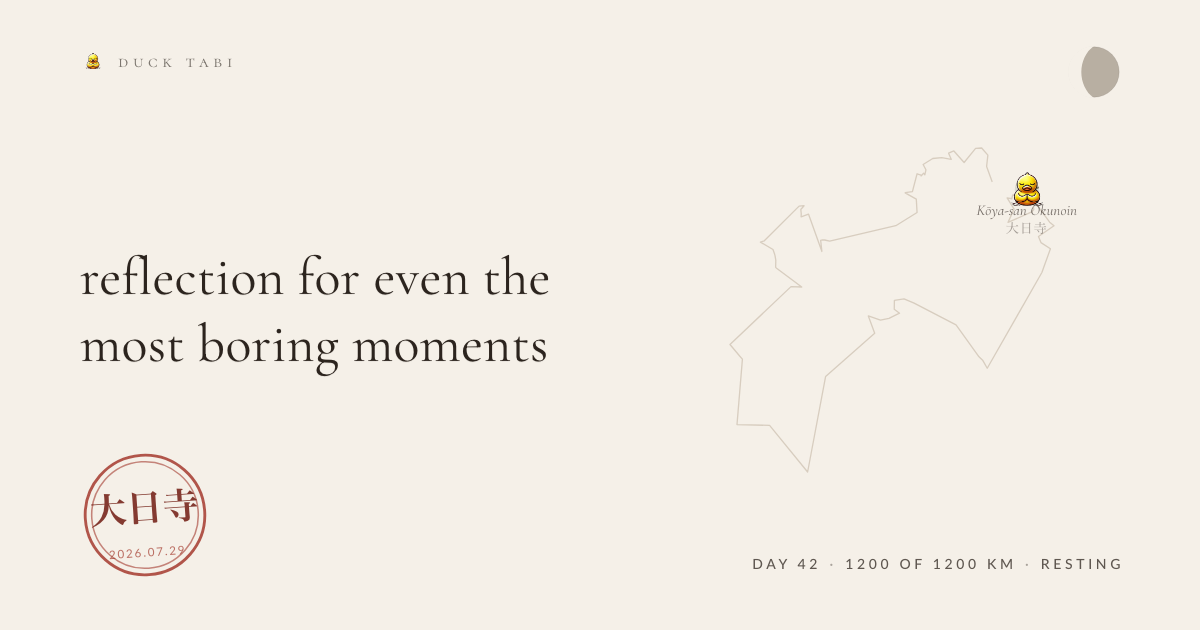
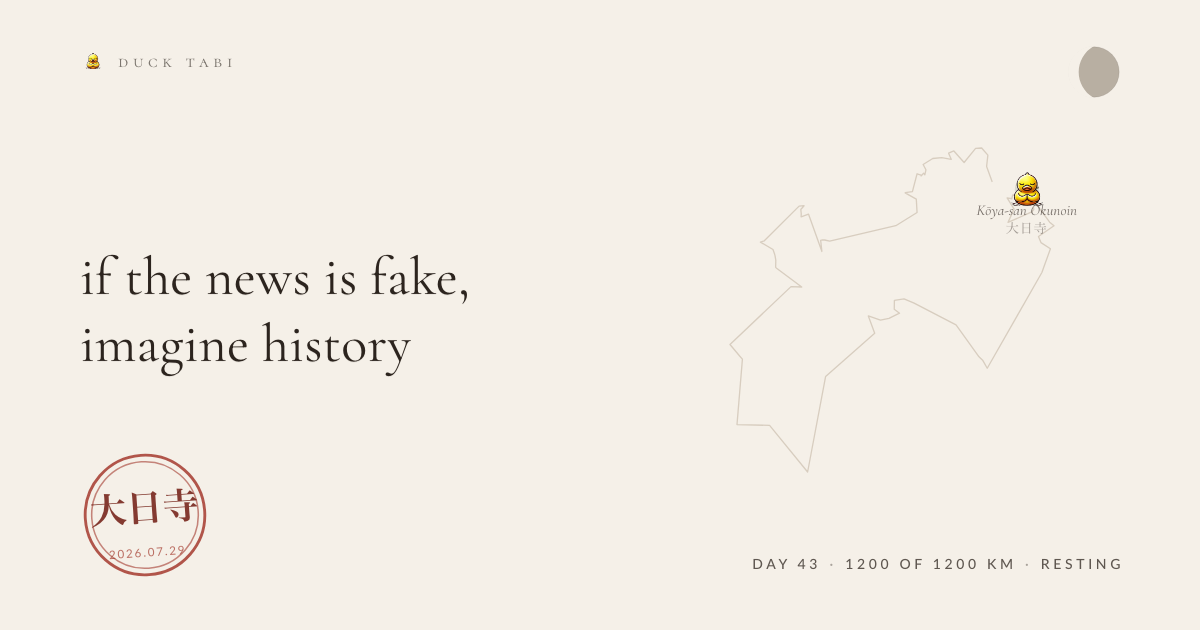
the duck walks

Changed region(s): [[0.0617, 0.3921, 0.4625, 0.4825], [0.0617, 0.5127, 0.4625, 0.6032]]

diff --git a/entries/2026-09-10-meditation.md b/entries/2026-09-10-meditation.md
@@ -1,0 +1,14 @@
+---
+date: '2026-09-10'
+route: shikoku-88
+stage: 4
+stageName: Kōya-san Okunoin
+coords: [135.589, 34.2167]
+kind: meditation
+glyph: ☁
+weather: light rain, 18°C
+kmFromStart: 9
+heardId: 7436d3b3
+---
+
+if the news is fake, imagine history
